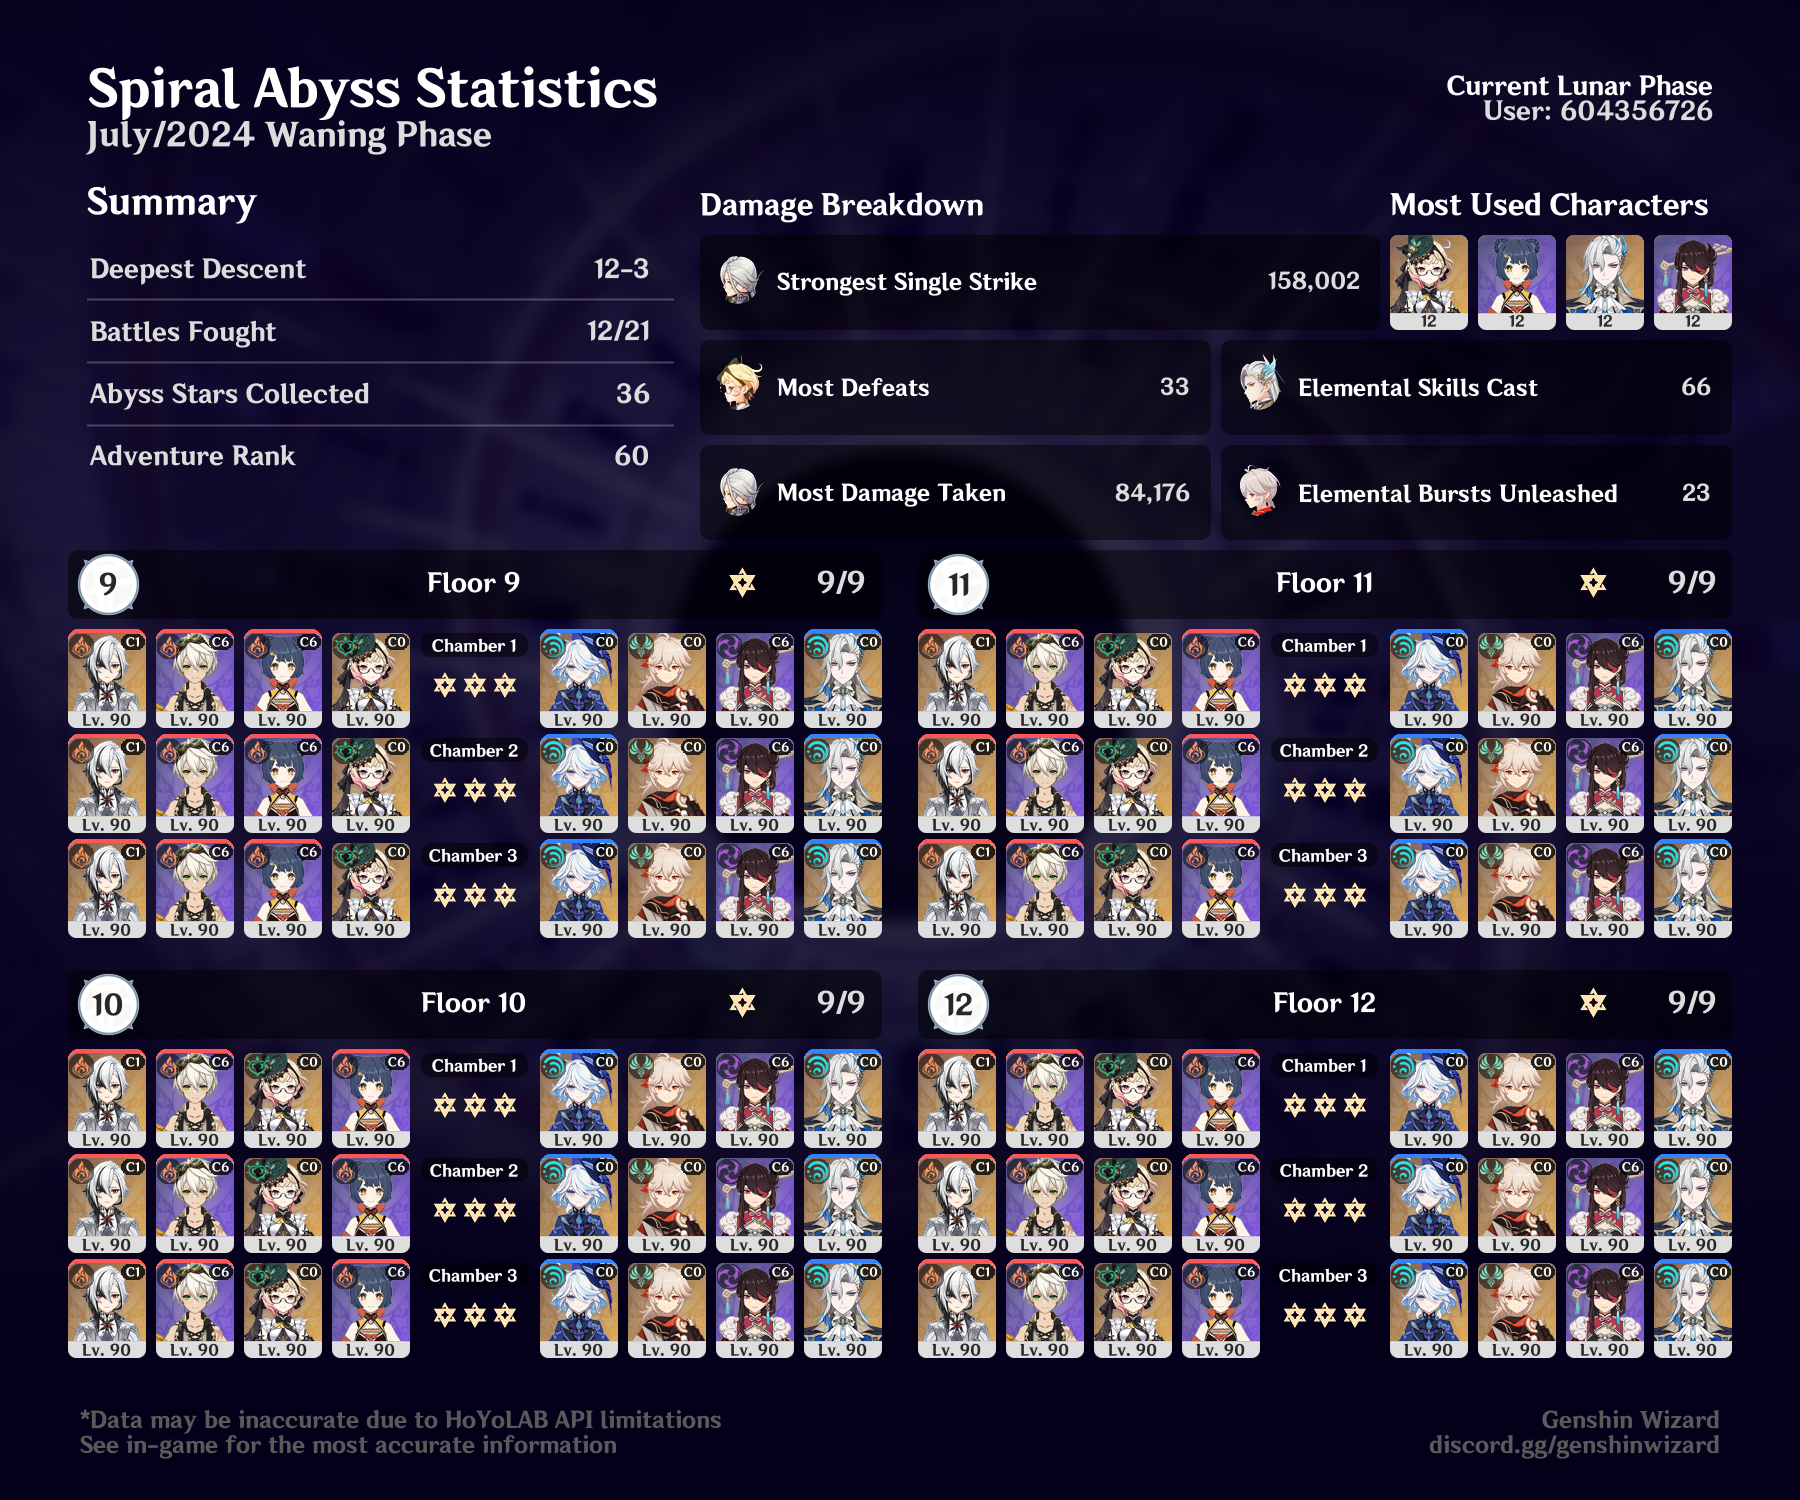
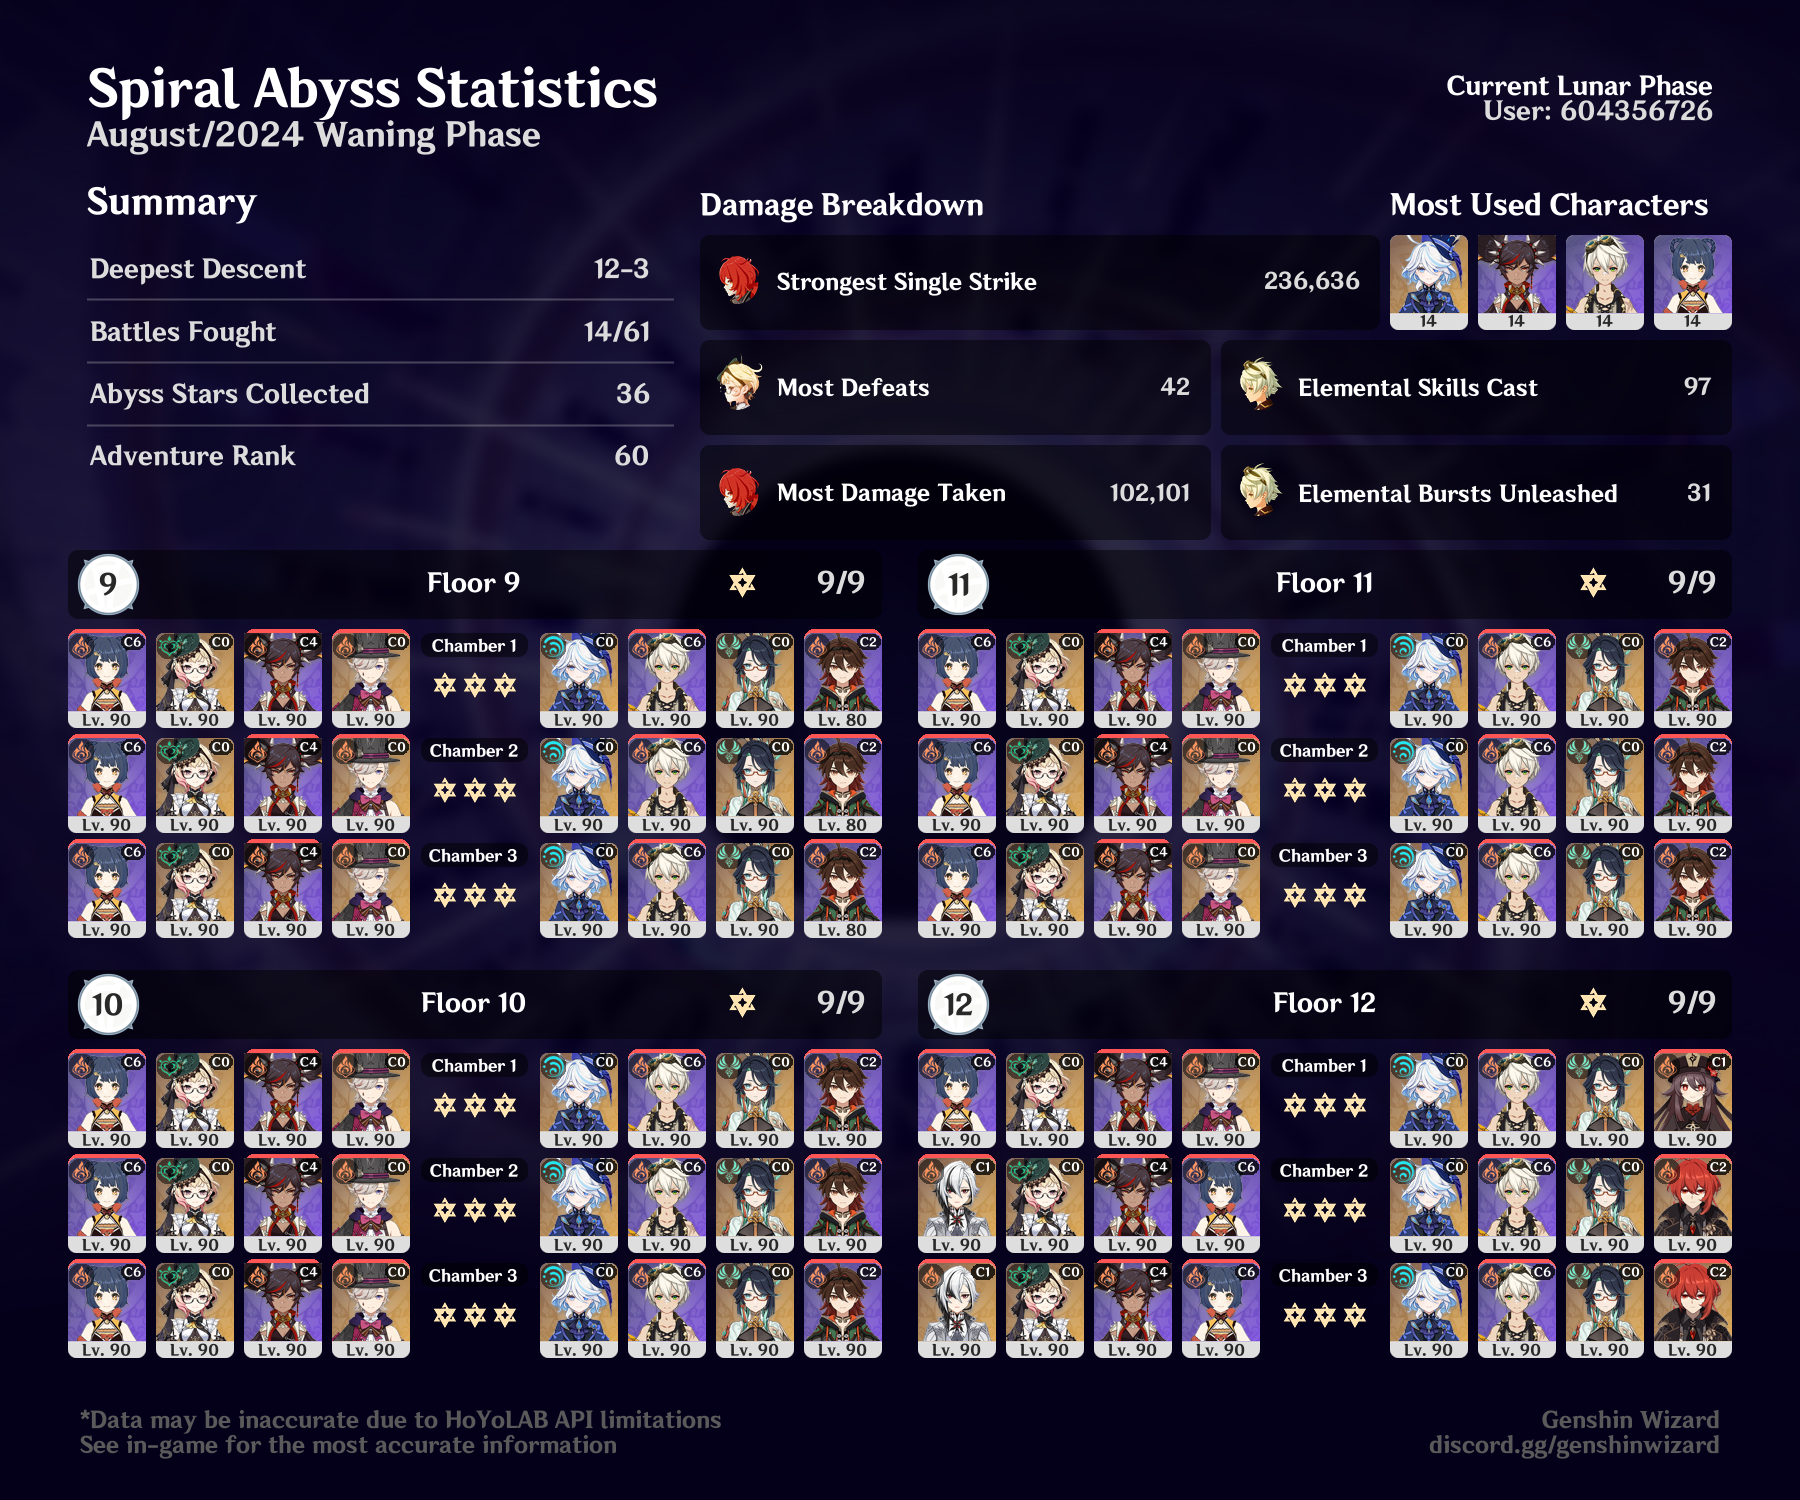
Spiral abyss updates

diff --git a/spiral-abyss/team_images/08-21-24/index.html b/spiral-abyss/team_images/08-21-24/index.html
@@ -74,10 +74,10 @@
 	
 	</head>
 <body>
-	<!-- <p align="center"><iframe class="video" width="560" src="https://video.hardlimit.com/videos/embed/c8217ae6-9f73-4e93-8d1a-ff2f2e9b6853?warningTitle=0" frameborder="0" allowfullscreen="" sandbox="allow-same-origin allow-scripts allow-popups"></iframe></p><h4 align="center">Floor 12</h4> -->
+	<p align="center"><iframe class="video" width="560" src="https://video.hardlimit.com/videos/embed/c8217ae6-9f73-4e93-8d1a-ff2f2e9b6853?warningTitle=0" frameborder="0" allowfullscreen="" sandbox="allow-same-origin allow-scripts allow-popups"></iframe></p><h4 align="center">Floor 12</h4>
 	
 <p align="center"><a href="https://video.hardlimit.com/c/namestolen/videos">View Archives</a> | <a href="https://elekk.xyz/@campbell">Follow me</a>
-<div class="fade in" align="center" style="font-family: 'VT323', monospace;font-size: 30px;color: rgb(64,64,64);">SPIRAL ABYSS VER. 4.8 CYCLE 1.2<p style="font-size:14px;color: rgb(64,64,64);">
+<div class="fade in" align="center" style="font-family: 'VT323', monospace;font-size: 30px;color: rgb(64,64,64);">SPIRAL ABYSS VER. 4.8 CYCLE 2<p style="font-size:14px;color: rgb(64,64,64);">
 <div class="column">
 	<h3 align="center">Team 1</h3>
 	<div class="click-zoom"><label><input type="checkbox">
@@ -102,7 +102,7 @@
 	</div>
 </div>
 	<img src="team_images/photo-9.png" width="100%">
-<p><br><br>Comments: <br><br>No video this time for a variety of reasons. I played poorly, was foolhardy in what kinds of teams/characters I could push through, my Arlecchino is missing a whole artifact (not to mention some other suspicious builds on other characters), etc. I tried recording it but my retries got so messy that it just wasn't worth it. These teams were what ended up clearing 12-3, though, so I'm counting it. Also, I'm counting a new character clear for abyss: Xinyan. Turns out if you build her to be a shield bot she's actually not bad. Perhaps not an ideal choice, but could be a good pyro addition to a Lyney team in the future.<br><br><br></p>
+<p><br><br>Comments: <br><br>I waited till I got Emilie to go through the abyss, and it resulted in one of my fastest clears yet. To be specific, I have to go back eight months to find an abyss clear that was faster than this one, and this enemy lineup has the largest hp pool of any lineup to date.<p> To talk teams: You won't see it in the overview stats since my Arlecchino already hits so hard, but having Emilie pile damage onto a team with arguably the two best pyro dps characters while all of them scale off of attack (which Bennett--of course--buffs) really does wonders for this team's ability to shred through basically anything without pyro immunity. As for the other side, I slightly modified my Neuvillette team to add some defensive utility with Beidou and fully leveled a Skyward Pride for her to let her build energy even as a solo electro. It was a lot comfier than the last clear of this lineup, though it's unclear whether this team would perform well enough to clear without the huge cushion that my first side team was able to establish for basically every chamber.<br><br><br></p>
 
 <!-- Footer -->
 			<footer id="footer" style="position:relative;">
